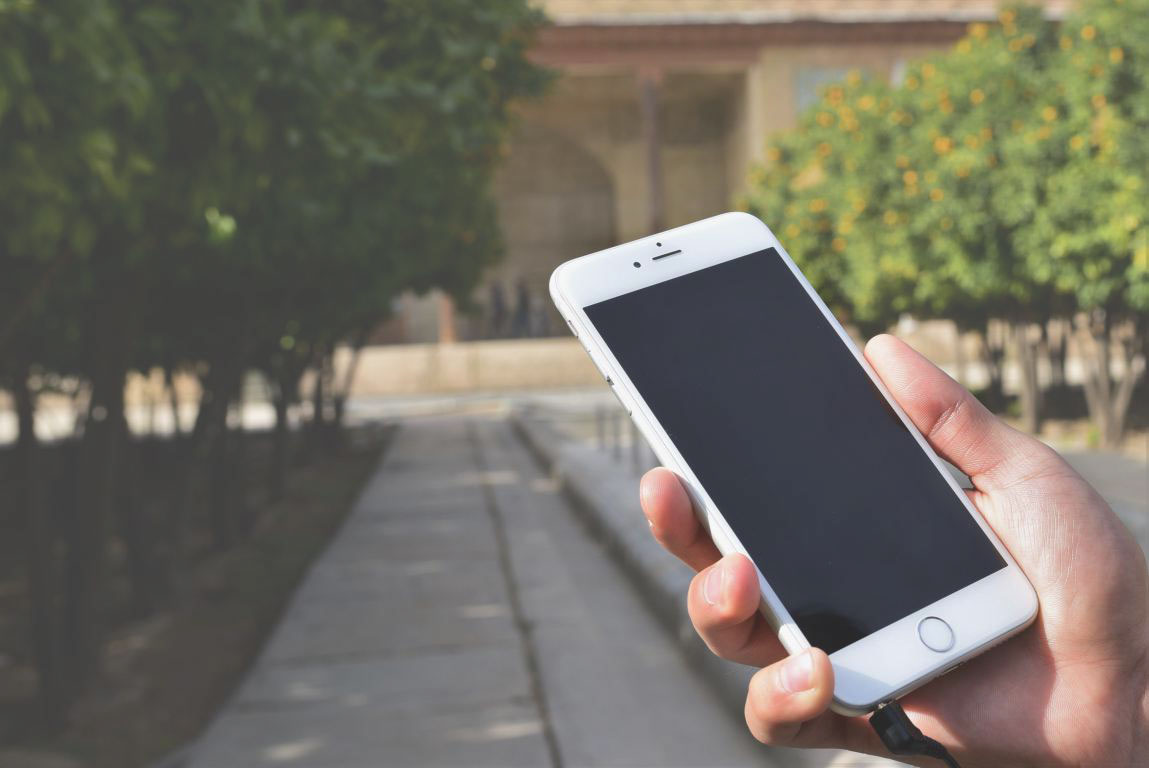
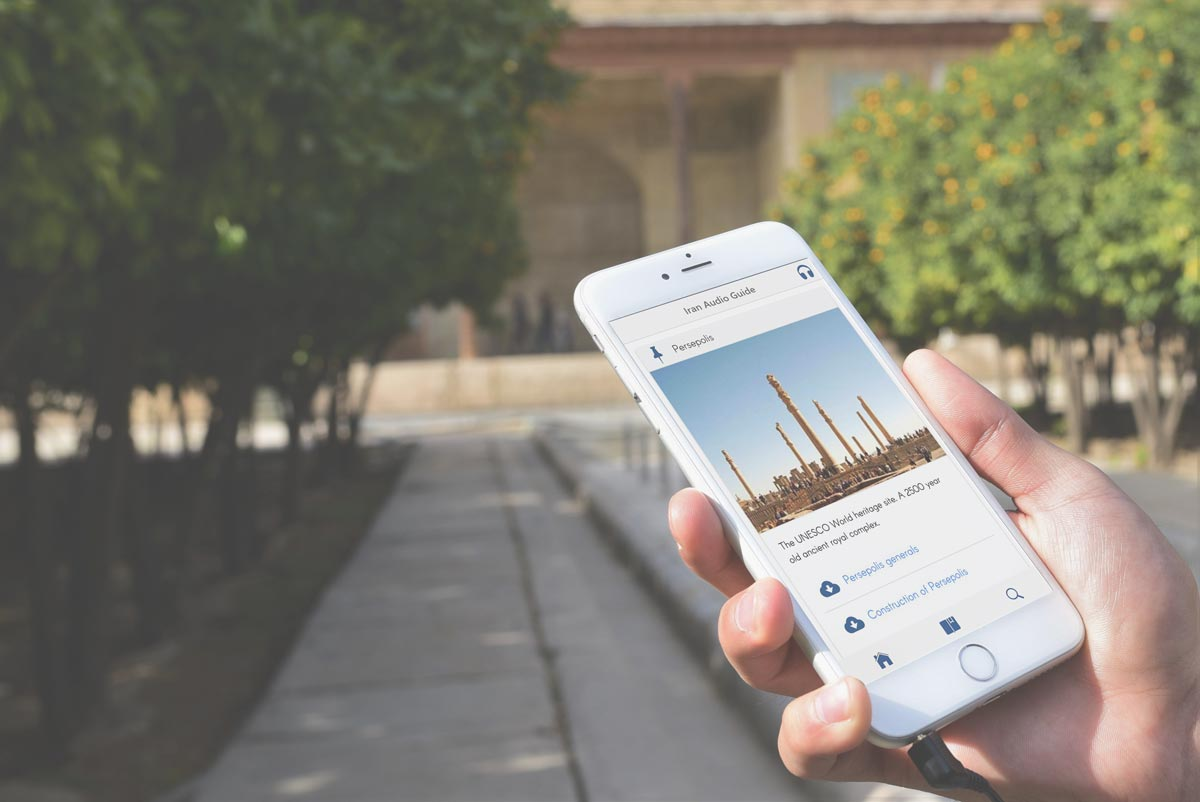
a

diff --git a/Iran_Audio_Guide/Iran_Audio_Guide/www/templates/home.html b/Iran_Audio_Guide/Iran_Audio_Guide/www/templates/home.html
@@ -1,13 +1,13 @@
 <ion-view title="{{PageTitle}}" id="page2">
     <ion-content padding="false" class="has-header">
-        <ion-slide-box auto-play="true" does-continue="true">
+        <!--<ion-slide-box auto-play="true" does-continue="true">
             <ion-slide ng-repeat="SlideShow in SlideShows" class="margin">
-                <img src="{{SlideShow.URL}}" style="display: block; margin-left: auto; margin-right: auto; width:100%; height:auto;">
+                <img src="" style="display: block; margin-left: auto; margin-right: auto; width:100%; height:auto;">
             </ion-slide>
-        </ion-slide-box>
+        </ion-slide-box>-->
         <div class="css-slideshow">
             <figure ng-repeat="SlideShow in SlideShows" >
-                <img src="{{SlideShow.URL}}" />
+                <img src="{{SlideShow}}" />
             </figure>
         </div>
             <!--<div style="margin-left: -10px; width: calc(100% + 20px);">

diff --git a/Iran_Audio_Guide/Iran_Audio_Guide/www/js/controllers.js b/Iran_Audio_Guide/Iran_Audio_Guide/www/js/controllers.js
@@ -208,7 +208,14 @@ angular.module('app.controllers', [])
                 URL: cordova.file.dataDirectory + "/PlacePic_dir/" + res.item(i).Pla_imgUrl
             });
         }
-        $scope.SlideShows = angular.copy(SlideShows);
+        //$scope.SlideShows = angular.copy(SlideShows);
+        $scope.SlideShows = [
+            'images/slidepics/s1.jpg',
+            'images/slidepics/s2.jpg',
+            'images/slidepics/s3.jpg',
+            'images/slidepics/s4.jpg',
+            'images/slidepics/s5.jpg'
+        ];
         $ionicSlideBoxDelegate.update();
         $scope.Places = angular.copy(AllPlaces);
         $ionicLoading.hide();

diff --git a/Iran_Audio_Guide/Iran_Audio_Guide/www/css/appStyles.css b/Iran_Audio_Guide/Iran_Audio_Guide/www/css/appStyles.css
@@ -77,8 +77,8 @@ body {
         .spinner svg {
   width: 45px;
   height: 45px;
-  stroke: rgba(255,255,255,0);
-  fill: rgb(255, 0, 0);
+  stroke: rgb(0, 255, 255);
+  fill: #15437f !important;
 }
 
 
@@ -86,7 +86,7 @@ body {
     position: relative;
     max-width: none;
     width: 100%;
-    height: 60%;
+    height: 55%;
     /* margin: 5em auto .5em auto; */
 }
 .css-slideshow figure{

diff --git a/IranAudioGuide_MainServer/IranAudioGuide_MainServer/Controllers/HomeController.cs b/IranAudioGuide_MainServer/IranAudioGuide_MainServer/Controllers/HomeController.cs
@@ -50,5 +50,9 @@ namespace IranAudioGuide_MainServer.Controllers
                 return Json(new Respond(ex.Message, status.unknownError));
             }
         }
+        public ActionResult test()
+        {
+            return View("Error");
+        }
     }
 }
